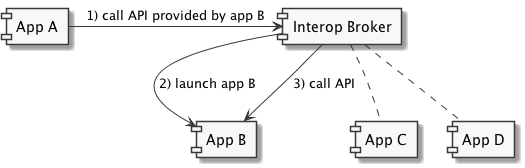
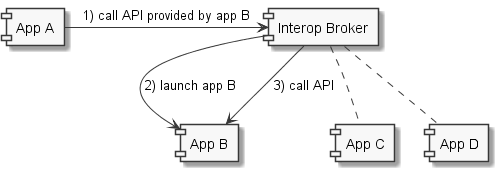
Updating gh pages

diff --git a/index.html b/index.html
@@ -1103,12 +1103,12 @@ This file is used by broker to verify interop invocations and perform service di
 <p>All interop calls in Plexus are going via central Interop Broker component which works as a mediator decoupling apps from each other and allowing dynamic service discovery:</p>
 <div class="imageblock">
 <div class="content">
-<img src="images/diag-c1232bd1e1db9ff2851b63035ddd135d.png" alt="diag c1232bd1e1db9ff2851b63035ddd135d" width="506" height="152">
+<img src="images/diag-c1232bd1e1db9ff2851b63035ddd135d.png" alt="diag c1232bd1e1db9ff2851b63035ddd135d" width="476" height="155">
 </div>
 </div>
 <div class="imageblock">
 <div class="content">
-<img src="images/diag-52f1bb1b83534f00e415763f59166d7b.png" alt="diag 52f1bb1b83534f00e415763f59166d7b" width="525" height="168">
+<img src="images/diag-52f1bb1b83534f00e415763f59166d7b.png" alt="diag 52f1bb1b83534f00e415763f59166d7b" width="499" height="172">
 </div>
 </div>
 </li>
@@ -1118,7 +1118,7 @@ This file is used by broker to verify interop invocations and perform service di
 <h4 id="high-level-architecture">High-level architecture</h4>
 <div class="imageblock">
 <div class="content">
-<img src="images/diag-e24370232956d904dd9be81530041a27.png" alt="diag e24370232956d904dd9be81530041a27" width="4096" height="1640">
+<img src="images/diag-e24370232956d904dd9be81530041a27.png" alt="diag e24370232956d904dd9be81530041a27" width="979" height="691">
 </div>
 </div>
 </div>
@@ -1176,7 +1176,7 @@ This file is used by broker to verify interop invocations and perform service di
 </div>
 <div class="imageblock">
 <div class="content">
-<img src="images/diag-287668115a1ab17e8f15e719c561a1d0.png" alt="diag 287668115a1ab17e8f15e719c561a1d0" width="493" height="311">
+<img src="images/diag-287668115a1ab17e8f15e719c561a1d0.png" alt="diag 287668115a1ab17e8f15e719c561a1d0" width="461" height="320">
 </div>
 </div>
 <div class="paragraph">
@@ -1204,7 +1204,7 @@ This file is used by broker to verify interop invocations and perform service di
 <h3 id="invocation-workflow">Invocation workflow</h3>
 <div class="imageblock">
 <div class="content">
-<img src="images/diag-94484b5c9cb52f30160f27f639a75cb6.png" alt="diag 94484b5c9cb52f30160f27f639a75cb6" width="2042" height="535">
+<img src="images/diag-94484b5c9cb52f30160f27f639a75cb6.png" alt="diag 94484b5c9cb52f30160f27f639a75cb6" width="1874" height="552">
 </div>
 </div>
 <div class="paragraph">
@@ -1317,7 +1317,7 @@ This file is used by broker to verify interop invocations and perform service di
 </div>
 <div class="imageblock">
 <div class="content">
-<img src="images/diag-5d068d7005ef3b3fabcfa81d9515e4bd.png" alt="diag 5d068d7005ef3b3fabcfa81d9515e4bd" width="4096" height="1687">
+<img src="images/diag-5d068d7005ef3b3fabcfa81d9515e4bd.png" alt="diag 5d068d7005ef3b3fabcfa81d9515e4bd" width="810" height="691">
 </div>
 </div>
 <div class="olist arabic">
@@ -1699,7 +1699,7 @@ all mapping are correct and consistent.</p>
 </div>
 <div id="footer">
 <div id="footer-text">
-Last updated 2017-10-03 14:21:58 MSK
+Last updated 2017-10-03 21:43:45 MSK
 </div>
 </div>
 </body>
